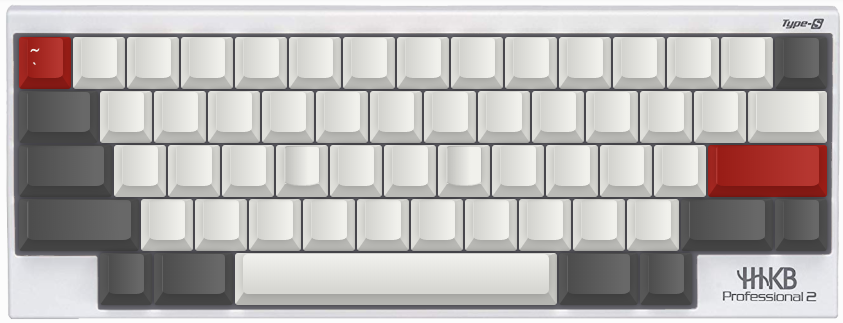
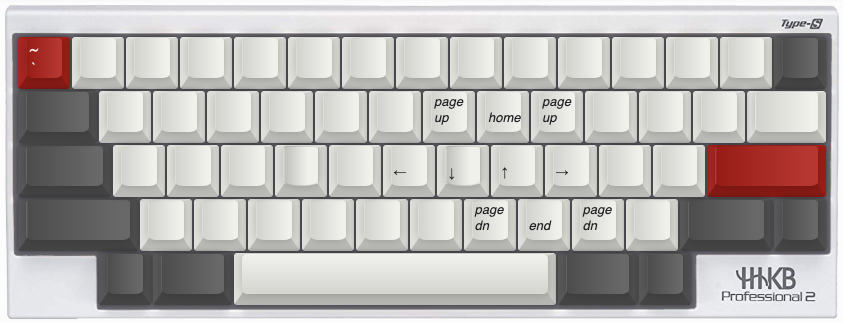
长按 3：临时切换到 Layer 3，提供 vi 类光标移动操作

diff --git a/ydkb/README.md b/ydkb/README.md
@@ -32,6 +32,7 @@ Layer 说明：
 - 长按 ~ (右上角按键) 或 长按数字 1 : 开启 Layer 2，主要是一些操作
 - 长按 ⌘: 修饰键⌘ & 瞬时开启Layer 3, 这一层的按钮必须配合 ⌘
 - 长按 2: 临时切换到鼠标层 Layer 5
+- 长按 3：临时切换到 Layer 3，提供 vi 类光标移动操作
 - ~ + \ (右上角2个按键)： 切换到鼠标操作层
 
 配列简要说明：
@@ -94,4 +95,4 @@ Mac上操作需要按以下流程：
 
 - 2020/1/4 支持鼠标层：http://mrw.so/4WyKfp
 - 2020/1/4 使用layer5: http://mrw.so/4zg9WJ
-- 2020/1/5 优化layer5: http://mrw.so/4rKm4s
+- 2020/1/5 优化layer5: http://mrw.so/5pU70z
